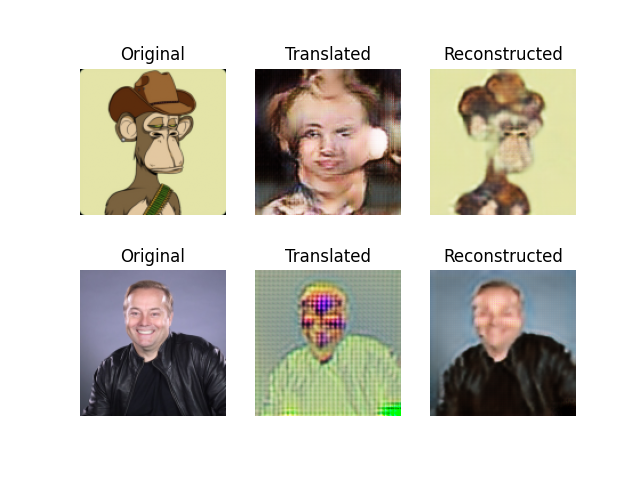
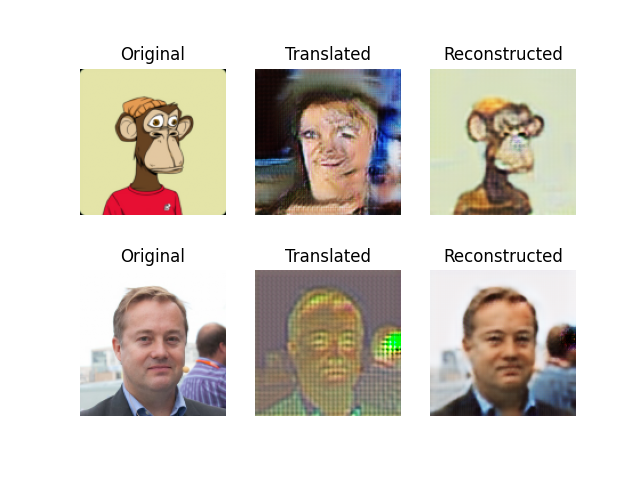
added usage of albumentations

diff --git a/data_loader.py b/data_loader.py
@@ -4,6 +4,11 @@ import numpy as np
 
 from imageio import imread
 from skimage.transform import resize
+import albumentations as A
+
+aug_pipeline = A.Compose([
+    A.ShiftScaleRotate(),
+])
 
 class DataLoader():
     def __init__(self, dataset_name, img_res=(128, 128)):
@@ -73,9 +78,17 @@ class DataLoader():
                 img_B = resize(img_B, self.img_res)
 
                 if not is_testing and np.random.random() > 0.5:
-                        img_A = np.fliplr(img_A)
-                        img_B = np.fliplr(img_B)
-
+                        #img_A = np.fliplr(img_A)
+                        #img_B = np.fliplr(img_B)
+                        augmented = aug_pipeline(
+                            image=img_A,
+                        )
+                        img_A = augmented['image']
+                        augmented = aug_pipeline(
+                            image=img_B,
+                        )
+                        img_B = augmented['image']
+                        
                 imgs_A.append(img_A)
                 imgs_B.append(img_B)
 

diff --git a/cyclegan1.py b/cyclegan1.py
@@ -167,6 +167,8 @@ class CycleGAN():
                     self.sample_images(epoch, batch_i)
                     self.g_AB.save_weights("saved_model/AB.h5")
                     self.g_BA.save_weights("saved_model/BA.h5")
+                    self.d_A.save_weights("saved_model/dA.h5")
+                    self.d_B.save_weights("saved_model/dB.h5")
           
     def sample_images(self, epoch, batch_i):
         os.makedirs('images/%s' % self.dataset_name, exist_ok=True)
